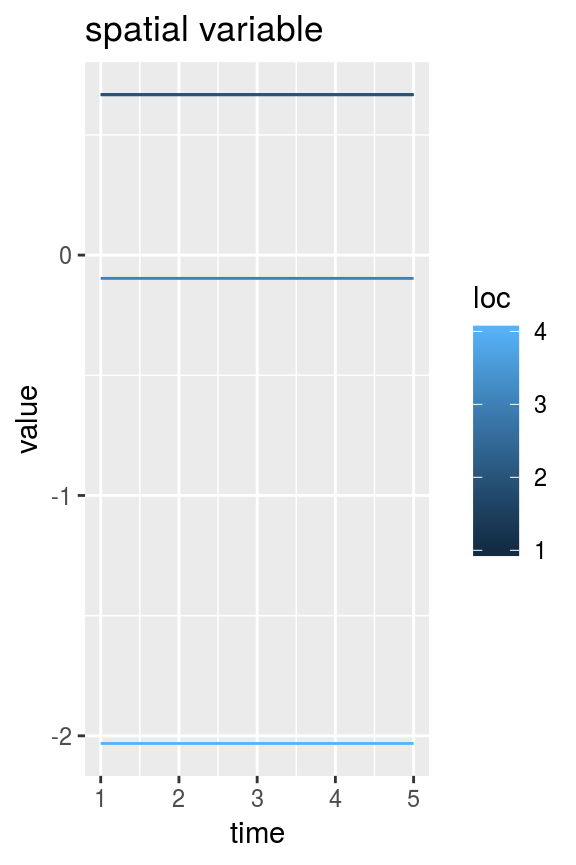
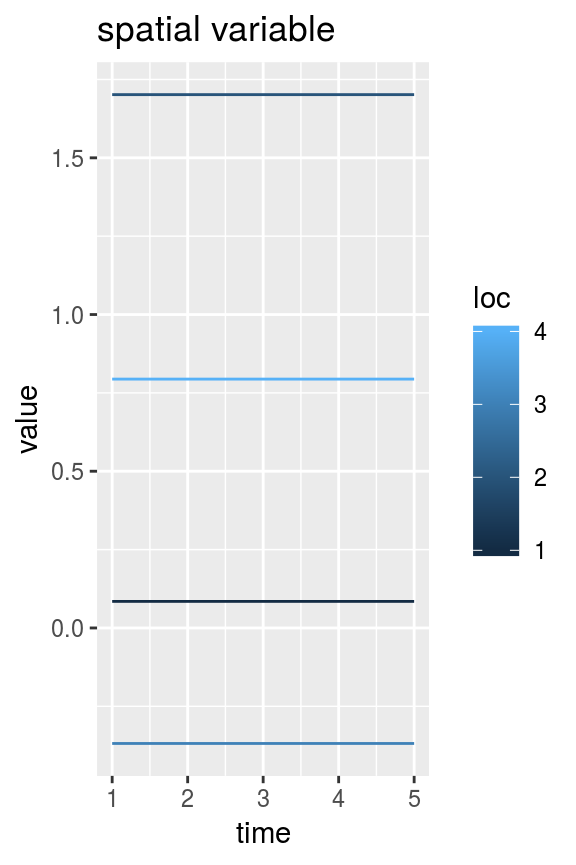
fixed vignette fig

diff --git a/docs/articles/swotlists.html b/docs/articles/swotlists.html
@@ -130,15 +130,15 @@ space_mat &lt;-<span class="st"> </span><span class="kw"><a href="../reference/s
 <div class="sourceCode"><pre class="sourceCode r"><code class="sourceCode r">tidydf1 &lt;-<span class="st"> </span><span class="kw"><a href="../reference/swot_tidy.html">swot_tidy</a></span>(list1)
 <span class="kw">str</span>(tidydf1)
 <span class="co">#&gt; 'data.frame':    20 obs. of  4 variables:</span>
-<span class="co">#&gt;  $ var1: num  -1.758 0.295 1.694 0.906 -0.305 ...</span>
-<span class="co">#&gt;  $ var2: num  -1.471 0.267 2.952 0.647 -2.013 ...</span>
+<span class="co">#&gt;  $ var1: num  -0.522 0.119 -1.73 -1.975 -0.184 ...</span>
+<span class="co">#&gt;  $ var2: num  0.0449 0.0925 -2.4245 -1.9787 0.3351 ...</span>
 <span class="co">#&gt;  $ time: int  1 1 1 1 2 2 2 2 3 3 ...</span>
 <span class="co">#&gt;  $ loc : int  1 2 3 4 1 2 3 4 1 2 ...</span></code></pre></div>
 <p>To go back to the original swotlist for, use <code>swot_untidy</code>.</p>
 <div class="sourceCode"><pre class="sourceCode r"><code class="sourceCode r"><span class="kw">str</span>(<span class="kw"><a href="../reference/swot_untidy.html">swot_untidy</a></span>(tidydf1))
 <span class="co">#&gt; List of 2</span>
-<span class="co">#&gt;  $ var1: num [1:4, 1:5] -1.758 0.295 1.694 0.906 -0.305 ...</span>
-<span class="co">#&gt;  $ var2: num [1:4, 1:5] -1.471 0.267 2.952 0.647 -2.013 ...</span></code></pre></div>
+<span class="co">#&gt;  $ var1: num [1:4, 1:5] -0.522 0.119 -1.73 -1.975 -0.184 ...</span>
+<span class="co">#&gt;  $ var2: num [1:4, 1:5] 0.0449 0.0925 -2.4245 -1.9787 0.3351 ...</span></code></pre></div>
 <p><code>swot_tidy</code> is used under the hood for many of <code>swotr</code>’s plotting functions (and some other functions), since ggplot2 takes a <code>data.frame</code> as input.</p>
 </div>
 <div id="netcdfs" class="section level2">
@@ -248,11 +248,12 @@ saclist7 &lt;-<span class="st"> </span><span class="kw"><a href="../reference/sw
 <a href="#interfacing-with-bamr" class="anchor"></a>Interfacing with bamr</h2>
 <p>The <code>swotr</code> package is designed to interface with the <a href="http://github.com/markwh/bamr">bamr</a> package for estimation of flow-law parameters and discharge. To turn a swotlist into a <code>bamdata</code> object, use swot_bamdata:</p>
 <div class="sourceCode"><pre class="sourceCode r"><code class="sourceCode r"><span class="kw">library</span>(bamr)
+<span class="co">#&gt; Loading required package: Rcpp</span>
 sacbd &lt;-<span class="st"> </span><span class="kw"><a href="../reference/swot_bamdata.html">swot_bamdata</a></span>(saclist3)
 sac_est &lt;-<span class="st"> </span><span class="kw"><a href="http://www.rdocumentation.org/packages/bamr/topics/bam_estimate">bam_estimate</a></span>(sacbd, <span class="dt">variant =</span> <span class="st">"manning"</span>, <span class="dt">iter =</span> <span class="dv">2000</span>)
 
 <span class="kw"><a href="http://www.rdocumentation.org/packages/bamr/topics/bam_hydrograph">bam_hydrograph</a></span>(sac_est, <span class="dt">qobs =</span> saclist3<span class="op">$</span>Q[<span class="dv">1</span>,])</code></pre></div>
-<p><img src="swotlists_files/figure-html/unnamed-chunk-20-1.png" width="576"></p>
+<p><img src="swotlists_files/figure-html/unnamed-chunk-21-1.png" width="576"></p>
 </div>
   </div>
 
